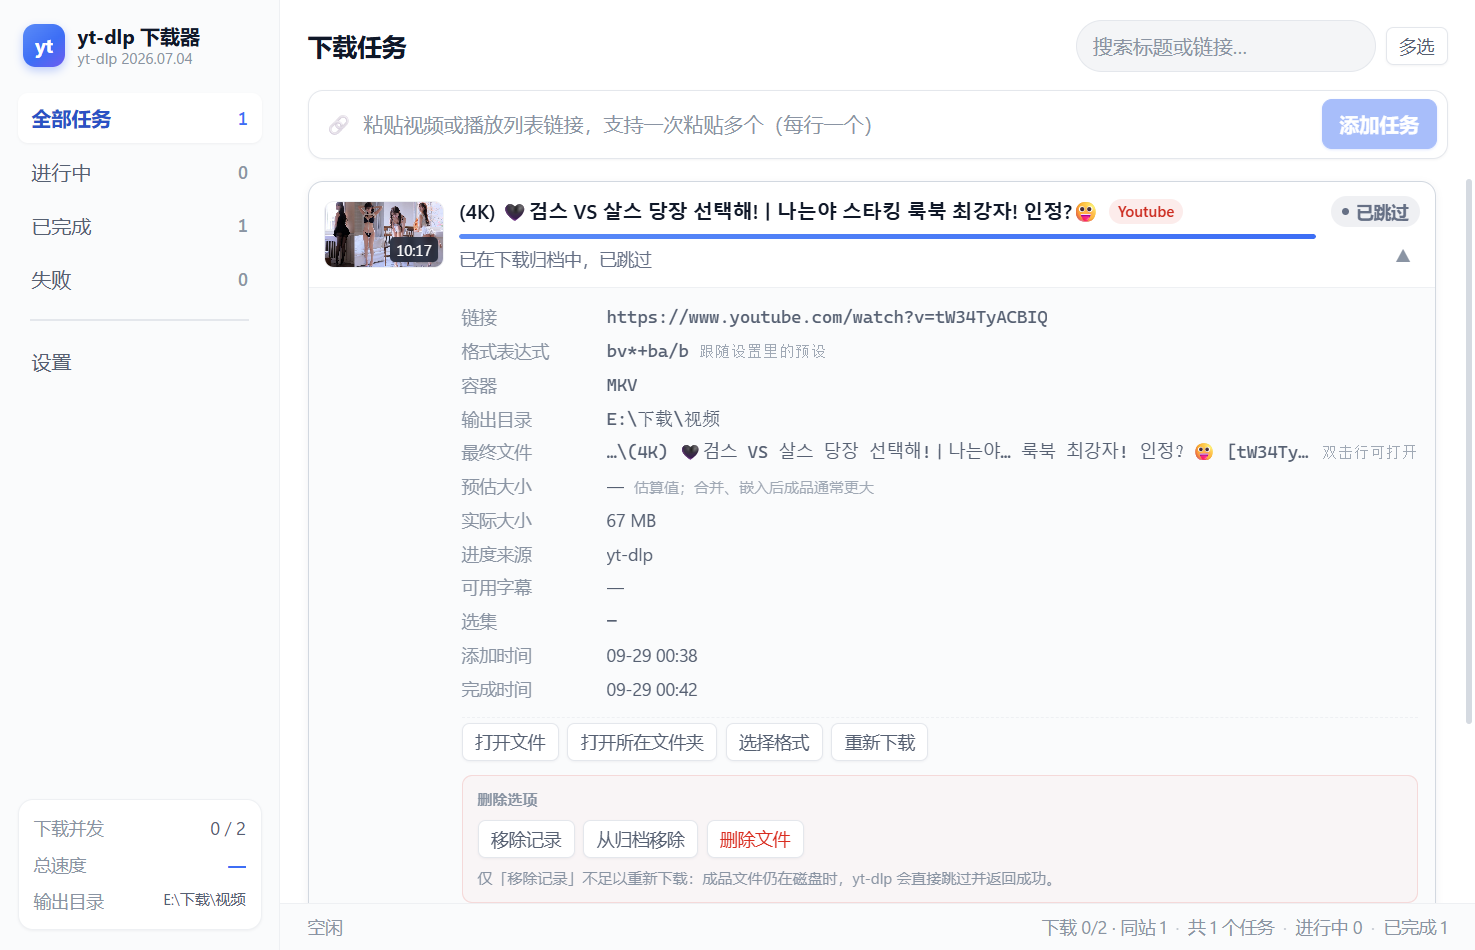
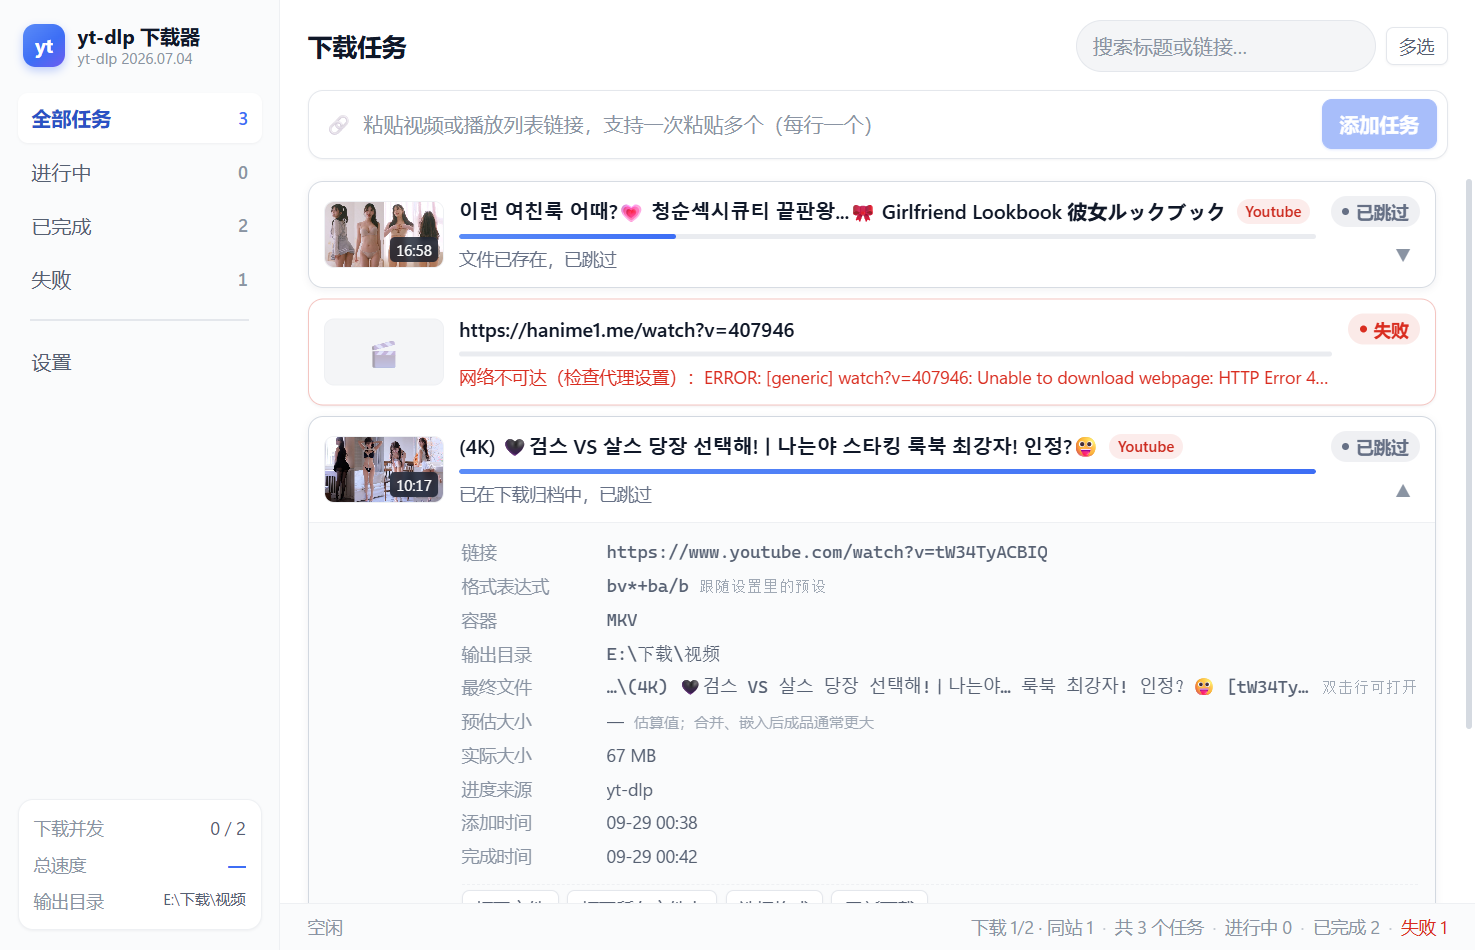
任务详情去掉「可用字幕」「选集」；顺带修两个 403 相关问题
一、按用户要求删掉任务详情里那两行
两个字段在界面上只有这两行在用，所以删掉后就没地方显示了。数据仍在采集、
仍在落库（playlist_items 后端还在用它拼 --playlist-items，不是死字段）。
「选集」删掉后，播放列表勾了哪几集在界面上看不到了——这一点告知用户。

二、截图时发现用户那条失败任务暴露的两个真问题
他试的是 hanime1.me，应用显示「网络不可达（检查代理设置）」，
而底层是 HTTP Error 403。两处都错了：

1. classify_error 里 `Unable to download webpage` 那一支排在 Cloudflare 之前，
   而且不区分「连不上」与「站点答了但拒绝」。现在：
   - Cloudflare 分支提到网络那支**之前**（特定优先）
   - 该支里裹着 4xx/5xx 时改说「站点拒绝了这次请求（HTTP 错误，不是网络不通）」
     并给出该做什么；只有真连不上才说「网络不可达」

2. 自动重试的触发条件太窄：只认 yt-dlp 那句 `Cloudflare anti-bot challenge`，
   但 yt-dlp 要**认出**才说那句话（要 cf-mitigated 头或 Cloudflare 标题）。
   用户这种自家规则的 403 只报 `Unable to download webpage: HTTP Error 403`，
   于是自动重试根本不会触发。
   现在 worth_impersonating() 收两种：带标记的 Cloudflare，以及
   `[generic]` + `HTTP Error 403`。只认 generic——别的提取器被 403 挡了
   改指纹帮不上，没道理白跑一遍。

验证（scripts/fake-cloudflare.py 加了 /plain403 形态：只有 403，没有任何
Cloudflare 标记）。实测应用跑 /plain403：

  探测 命令：… --js-runtimes bun -- http://127.0.0.1:8813/plain403
  探测被站点拦截（HTTP 403），自动开启指纹模拟重试
  探测 命令：… --extractor-args generic:impersonate -- http://127.0.0.1:8813/plain403
  开启指纹模拟后仍被拦截            <- 假站永远 403，如实记录
  探测 命令：…（退回不带 -f 的第三次）

任务上的错误变成：
  「站点拒绝了这次请求（HTTP 错误，不是网络不通）。403 / 451 常见于反爬或
    地区限制：可以到「设置 → 网络与账号」打开「绕过 Cloudflare 拦截」再试，
    或者换一个代理出口 IP。」

也就是说用户那个站点现在会**自动带指纹重试**，而不是被劝去查代理。

措辞也一并改成通用的（日志里不再写死 Cloudflare）。

重录 docs/screenshots/task-detail.png（少了两行）。

core 152 + shell 84 = 236 全绿，vue-tsc 与 vite build 通过，clippy 无新增告警。

diff --git a/src/components/TaskDetail.vue b/src/components/TaskDetail.vue
@@ -74,11 +74,6 @@ const rows = computed(() => {
       v: t.value.usedAria2c ? 'aria2c 自身输出（精度略低）' : 'yt-dlp',
       hint: t.value.usedAria2c ? '用 aria2c 时 yt-dlp 不上报进度' : undefined,
     },
-    {
-      k: '可用字幕',
-      v: t.value.subtitleLangs?.length ? t.value.subtitleLangs.join(', ') : '—',
-    },
-    { k: '选集', v: t.value.playlistItems ?? '—', mono: true },
     { k: '添加时间', v: fmtTime(t.value.addedAt) },
     { k: '完成时间', v: fmtTime(t.value.finishedAt) },
   ]

diff --git a/src-tauri/src/runner.rs b/src-tauri/src/runner.rs
@@ -391,19 +391,19 @@ pub async fn run_download(app: AppHandle, task_id: String) {
 
     if blind_retry {
         crate::logfile::info(format!(
-            "[{task_id}] 下载遇到 Cloudflare 拦截，自动开启指纹模拟重试一次"
+            "[{task_id}] 下载被站点拦截（HTTP 403），自动开启指纹模拟重试一次"
         ));
         update(&app, &task_id, |t| {
             t.auto_impersonate = true;
             t.state = "pending".into();
             t.error = None;
             t.finished_at = None;
-            t.queue_hint = Some("遇到 Cloudflare 拦截，已开启指纹模拟重试".into());
+            t.queue_hint = Some("被站点拦截，已开启指纹模拟重试".into());
         });
         push_warning(
             &app,
             &task_id,
-            "站点有 Cloudflare 反爬拦截，已自动开启浏览器指纹模拟重试（只对这个任务有效）".to_string(),
+            "站点有反爬拦截（HTTP 403），已自动开启浏览器指纹模拟重试（只对这个任务有效）".to_string(),
         );
         let host = ytdlp_core::host_of(&url);
         app.state::<crate::scheduler::Scheduler>()
@@ -714,19 +714,37 @@ fn is_cloudflare_challenge(text: &str) -> bool {
     text.contains("Cloudflare anti-bot challenge")
 }
 
+/// 是不是「generic 提取器被 HTTP 403 挡了」。
+///
+/// yt-dlp 只在**认出**那是 Cloudflare 挑战时才给那句建议——它要求响应头有
+/// `cf-mitigated: challenge`，或者页面标题正好是 `Attention Required! | Cloudflare`。
+/// 很多站点用的是自家规则（或者 CDN 没带那个头），同样是 403 却只报一句
+/// `Unable to download webpage: HTTP Error 403`。
+///
+/// 这两种对**指纹模拟**的反应是一样的，所以自动重试的条件把两种都收进来。
+/// 实测用户遇到的正是后一种：报错里根本没有 Cloudflare 字样。
+fn is_blocked_generic_403(text: &str) -> bool {
+    text.contains("[generic]") && text.contains("HTTP Error 403")
+}
+
+/// 值不值得为它开指纹模拟再试一次。
+fn worth_impersonating(text: &str) -> bool {
+    is_cloudflare_challenge(text) || is_blocked_generic_403(text)
+}
+
 /// 这次下载失败要不要**自动**带着指纹模拟重试一次。
 ///
 /// 三个条件缺一不可：
 /// - 确实失败了（不是 canceled，也不是正常跳过）；
 /// - **还没试过**自动模拟——`already` 保证只重试一次，否则会死循环；
-/// - 失败原因就是 Cloudflare 拦截。
+/// - 失败原因是站点把我们挡了（Cloudflare 挑战，或没带标记的普通 403）。
 ///
 /// 抽成纯函数是因为这个判断错了的代价很大：漏判 = 用户继续看到那个
 /// 看不懂的 403；误判 = 每个失败都白跑一遍。
 fn should_retry_with_impersonate(state: &str, already: bool, error: Option<&str>) -> bool {
     state == "failed"
         && !already
-        && error.map(is_cloudflare_challenge).unwrap_or(false)
+        && error.map(worth_impersonating).unwrap_or(false)
 }
 
 /// 从设置里取 JS 运行时配置。///
@@ -858,12 +876,12 @@ pub async fn run_probe(app: AppHandle, task_id: String) {
     let info = match probe_once(&exe, &task_id, &url, &settings, Some(&expression)).await {
         Ok(i) => i,
         Err(first) => {
-            // ① 撞上 Cloudflare 拦截：**带着指纹模拟原地重试一次**。
+            // ① 被站点拦截（403）：**带着指纹模拟原地重试一次**。
             //    放在「退回不带 -f」之前——那种退让解决不了 403，
             //    只会把同一个失败再走一遍。
-            if first.cloudflare && !impersonate_of(&settings) {
+            if first.blocked && !impersonate_of(&settings) {
                 crate::logfile::info(format!(
-                    "[{task_id}] 探测遇到 Cloudflare 拦截，自动开启指纹模拟重试"
+                    "[{task_id}] 探测被站点拦截（HTTP 403），自动开启指纹模拟重试"
                 ));
                 let forced = settings_with_impersonate(&settings);
                 match probe_once(&exe, &task_id, &url, &forced, Some(&expression)).await {
@@ -874,7 +892,7 @@ pub async fn run_probe(app: AppHandle, task_id: String) {
                         push_warning(
                             &app,
                             &task_id,
-                            "站点有 Cloudflare 反爬拦截，已自动开启浏览器指纹模拟（只对这个任务有效）"
+                            "站点有反爬拦截（HTTP 403），已自动开启浏览器指纹模拟（只对这个任务有效）"
                                 .to_string(),
                         );
                         apply_info(&app, &task_id, &url, i);
@@ -882,7 +900,7 @@ pub async fn run_probe(app: AppHandle, task_id: String) {
                     }
                     Err(_) => {
                         crate::logfile::warn(format!(
-                            "[{task_id}] 开启指纹模拟后仍被 Cloudflare 拦截"
+                            "[{task_id}] 开启指纹模拟后仍被拦截"
                         ));
                         // 模拟也没用，继续走原来的退让逻辑
                     }
@@ -924,8 +942,9 @@ struct ProbeFailure {
     message: String,
     /// 失败原因是「所选格式不可用」——用于区分「用户的表达式有问题」和偶发故障。
     format_unavailable: bool,
-    /// 失败原因是 Cloudflare 反爬拦截——这种情况要带着指纹模拟重试。
-    cloudflare: bool,
+    /// 失败原因是站点把我们挡了（Cloudflare 挑战，或没带标记的普通 403）——
+    /// 这两种都值得带着指纹模拟重试一次。
+    blocked: bool,
 }
 
 /// 跑一次探测。`format` 为 `Some` 时会带上 `-f`，从而拿到预估大小。
@@ -962,7 +981,7 @@ async fn probe_once(
             ytdlp_core::parse_info_json(&json).map_err(|e| ProbeFailure {
                 message: format!("探测结果解析失败：{e}"),
                 format_unavailable: false,
-                cloudflare: false,
+                blocked: false,
             })
         }
         Ok(o) => {
@@ -970,13 +989,13 @@ async fn probe_once(
             Err(ProbeFailure {
                 message: classify_error(&raw, o.status.code()),
                 format_unavailable: raw.contains("Requested format is not available"),
-                cloudflare: is_cloudflare_challenge(&raw),
+                blocked: worth_impersonating(&raw),
             })
         }
         Err(e) => Err(ProbeFailure {
             message: format!("无法启动 yt-dlp：{e}"),
             format_unavailable: false,
-            cloudflare: false,
+            blocked: false,
         }),
     }
 }
@@ -1039,7 +1058,31 @@ fn classify_error(stderr: &str, code: Option<i32>) -> String {
     {
         return format!("需要登录或会员权限：{}", l.trim());
     }
+    // 站点拒绝了我们。**必须排在「网络不可达」之前**：那句
+    // `Unable to download webpage` 里经常裹着 HTTP 状态码，
+    // 而「站点答了、只是不肯给」和「根本连不上」是两件完全不同的事。
+    if let Some(l) = pick("Cloudflare anti-bot challenge") {
+        return format!(
+            "这个站点有 Cloudflare 反爬拦截（HTTP 403）。\n\
+             已经自动带着浏览器指纹重试过一次了；还是不行的话，换一个代理出口 IP，\
+             或者到「设置 → 网络与账号」配上 cookie 再试。\n\
+             原始信息：{}",
+            l.trim()
+        );
+    }
     if let Some(l) = pick("Unable to download webpage").or_else(|| pick("Failed to resolve")) {
+        // ⚠ 实测踩到：`ERROR: [generic] …: Unable to download webpage: HTTP Error 403`
+        // 被判成「网络不可达（检查代理设置）」——站点明明答了，只是拒绝了我们，
+        // 这句提示会把人引到完全相反的方向去查代理。
+        if l.contains("HTTP Error 4") || l.contains("HTTP Error 5") {
+            return format!(
+                "站点拒绝了这次请求（HTTP 错误，不是网络不通）。\n\
+                 403 / 451 常见于反爬或地区限制：可以到「设置 → 网络与账号」\
+                 打开「绕过 Cloudflare 拦截」再试，或者换一个代理出口 IP。\n\
+                 原始信息：{}",
+                l.trim()
+            );
+        }
         return format!("网络不可达（检查代理设置）：{}", l.trim());
     }
     // YouTube 对「可疑请求」的两种降级响应。
@@ -1066,14 +1109,6 @@ fn classify_error(stderr: &str, code: Option<i32>) -> String {
     }
     // 站点用了 Cloudflare 反爬：yt-dlp 自己给出的解法是开指纹模拟，
     // 但那是个命令行参数，界面用户够不着——所以这里直接指到那个开关上。
-    if let Some(l) = pick("Cloudflare anti-bot challenge") {
-        return format!(
-            "这个站点有 Cloudflare 反爬拦截（HTTP 403）。\n\
-             解法：打开「设置 → 网络与账号 → 绕过 Cloudflare 拦截」再试一次。\n\
-             {}",
-            l.trim()
-        );
-    }
     if let Some(l) = pick("Unsupported URL") {
         return format!("不支持的链接：{}", l.trim());
     }
@@ -1149,8 +1184,7 @@ mod tests {
     /// 认 Cloudflare 拦截靠的是 yt-dlp 自己那句话——**分类前后的文本都要认**：
     /// 探测走 `classify_error`（中文多行），下载走到的是原始 ERROR 行。
     #[test]
-    fn cloudflare_challenge_is_recognized_in_both_forms() {
-        // 原始形式
+    fn cloudflare_challenge_is_recognized_in_both_forms() {        // 原始形式
         assert!(is_cloudflare_challenge(
             "ERROR: [generic] Got HTTP Error 403 caused by Cloudflare anti-bot challenge; \
              try again with --extractor-args \"generic:impersonate\""
@@ -1165,6 +1199,51 @@ mod tests {
         // 别的 403 不能误判
         assert!(!is_cloudflare_challenge("ERROR: HTTP Error 403: Forbidden"));
         assert!(!is_cloudflare_challenge("ERROR: Unable to download webpage"));
+    }
+
+    /// ⚠ 实测踩到的误判：`Unable to download webpage` 里裹着 HTTP 状态码时，
+    /// 那**不是**网络不通——站点答了，只是拒绝了我们。说成「网络不可达（检查代理设置）」
+    /// 会把人引到完全相反的方向去查代理。
+    #[test]
+    fn http_error_is_not_reported_as_unreachable() {
+        let real = "ERROR: [generic] watch?v=407946: Unable to download webpage: \
+                    HTTP Error 403: Forbidden";
+        let msg = classify_error(real, Some(1));
+        assert!(!msg.contains("网络不可达"), "403 不该说成网络不可达：{msg}");
+        assert!(msg.contains("拒绝了这次请求"), "实际: {msg}");
+
+        // 真的连不上时仍然要说「检查代理设置」
+        let dead = "ERROR: Unable to download webpage: <urlopen error [Errno 111] Connection refused>";
+        let msg = classify_error(dead, Some(1));
+        assert!(msg.contains("网络不可达"), "实际: {msg}");
+    }
+
+    /// Cloudflare 那句话里也含 `Unable to download webpage` 之外的形式，
+    /// 但**必须优先于**网络那一支——否则会被抢答成「网络不可达」。
+    #[test]
+    fn cloudflare_takes_priority_over_unreachable() {
+        let both = "ERROR: Unable to download webpage: HTTP Error 403: Forbidden\n\
+                    ERROR: [generic] Got HTTP Error 403 caused by Cloudflare anti-bot challenge";
+        let msg = classify_error(both, Some(1));
+        assert!(msg.contains("Cloudflare 反爬拦截"), "实际: {msg}");
+        assert!(!msg.contains("网络不可达"));
+    }
+
+    /// 没带 Cloudflare 标记、但确实是 generic 提取器被 403 挡了——
+    /// **用户遇到的正是这一种**（报错里根本没有 Cloudflare 字样）。
+    /// 这种也值得开指纹模拟试一次。
+    #[test]
+    fn unmarked_generic_403_also_worth_impersonating() {
+        let real = "ERROR: [generic] watch?v=407946: Unable to download webpage: \
+                    HTTP Error 403: Forbidden";
+        assert!(is_blocked_generic_403(real));
+        assert!(worth_impersonating(real));
+
+        // 但**非 generic** 的 403 不碰：那是别的提取器的事，模拟帮不上
+        assert!(!is_blocked_generic_403("ERROR: [youtube] x: HTTP Error 403: Forbidden"));
+        assert!(!worth_impersonating("ERROR: [youtube] x: HTTP Error 403: Forbidden"));
+        // 404 之类的也不是反爬
+        assert!(!is_blocked_generic_403("ERROR: [generic] x: HTTP Error 404: Not Found"));
     }
 
     /// 自动重试的三个条件，逐个钉住。

diff --git a/scripts/fake-cloudflare.py b/scripts/fake-cloudflare.py
@@ -1,38 +1,53 @@
-"""假装成 Cloudflare 反爬：一律返回 403 + 挑战标记。
+"""假装成反爬站点：返回 403。用来验证「被挡时自动开指纹模拟重试」。
 
-用来验证「撞上 Cloudflare 时自动开指纹模拟重试」这条路径——不用去找真站点。
+不用去找真站点——真站点不好找，也不该拿别人的站压测。
 
-yt-dlp 的判定（youtube 源码 generic.py）：
-    403 且 (响应头 cf-mitigated == 'challenge'
-            或 body 里有 <title>Attention Required! | Cloudflare</title>)
+两种形态，对应现实中两种不同的报错：
+
+  `/`          403 + `cf-mitigated: challenge` + Cloudflare 标题
+               -> yt-dlp 认得出，报 `Got HTTP Error 403 caused by Cloudflare
+                  anti-bot challenge; try again with --extractor-args ...`
+
+  `/plain403`  光是 403，没有任何 Cloudflare 标记
+               -> yt-dlp 只报 `Unable to download webpage: HTTP Error 403`
+                  **实测用户遇到的正是这一种**（报错里根本没有 Cloudflare 字样），
+                  而它以前会被应用误判成「网络不可达（检查代理设置）」。
+
+用法：python scripts/fake-cloudflare.py 8813
 """
 import http.server
 import sys
 
-BODY = (
+CLOUDFLARE_BODY = (
     b"<!DOCTYPE html><html><head><title>Attention Required! | Cloudflare</title>"
     b"</head><body>Sorry, you have been blocked</body></html>"
 )
+PLAIN_BODY = b"<!DOCTYPE html><html><body>403</body></html>"
 
 
 class Handler(http.server.BaseHTTPRequestHandler):
     def log_message(self, *args):
         pass
 
-    def _block(self):
+    def _block(self, cloudflare_marker: bool, body: bytes):
         self.send_response(403)
         self.send_header("Content-Type", "text/html")
-        self.send_header("cf-mitigated", "challenge")
-        self.send_header("Content-Length", str(len(BODY)))
+        if cloudflare_marker:
+            self.send_header("cf-mitigated", "challenge")
+        self.send_header("Content-Length", str(len(body)))
         self.end_headers()
-        self.wfile.write(BODY)
+        self.wfile.write(body)
 
     def do_GET(self):
-        self._block()
+        if self.path.startswith("/plain403"):
+            self._block(False, PLAIN_BODY)
+        else:
+            self._block(True, CLOUDFLARE_BODY)
 
     def do_HEAD(self):
         self.send_response(403)
-        self.send_header("cf-mitigated", "challenge")
+        if not self.path.startswith("/plain403"):
+            self.send_header("cf-mitigated", "challenge")
         self.send_header("Content-Length", "0")
         self.end_headers()
 

diff --git a/README.md b/README.md
@@ -179,6 +179,7 @@ yt-dlp 有两种发行形态，**只有一种能直接放进 `externalBin`**：
 | **同步的 `#[tauri::command]` 会冻住整个窗口** | 它跑在主线程（Windows 消息循环）上，稍慢就是整窗无响应——标题栏都点不动。`aria2c_info` 要起进程，就是靠这个把「进设置再返回」弄卡的 | 凡做 IO（文件/进程/网络/剪贴板）的命令一律 `#[tauri::command(async)]`（DESIGN §4.4） |
 | **CDP 的合成点击测不出整窗卡死** | 它直接投给渲染进程、绕过宿主消息循环，主线程堵死时合成点击仍然 2ms 返回 | 用 `SendMessageTimeout(..., SMTO_ABORTIFHUNG)` 探宿主是否还在处理消息 |
 | **Cloudflare 403 要开 `generic:impersonate`** | 报错原文是命令行参数，界面用户够不着。**随包的 yt-dlp 已经带了 `curl_cffi`**（`--list-impersonate-targets` 有 17 个目标），所以只差把参数传进去 | 撞上拦截时**自动带指纹重试一次**（任务级旗标，只影响这一个任务）；设置页「网络与账号 → 绕过 Cloudflare 拦截」也能手动常开——DESIGN §7.6 |
+| **`Unable to download webpage` 里可能裹着 HTTP 状态码** | `ERROR: [generic] …: Unable to download webpage: HTTP Error 403` 被归到「网络不可达（检查代理设置）」——站点明明答了，只是拒绝了我们。**实测踩到**，那句提示把人引到完全相反的方向去查代理 | 带 4xx/5xx 时改说「站点拒绝了这次请求」并给出该做什么；Cloudflare 分支提到网络那支**之前**（特定优先）——DESIGN §7.6 |
 | **改 `tempDir` 会让续传静默失效** | 新目录里找不到旧 `.part`，yt-dlp 从头下，旧碎片永久残留（清理只扫当前根） | 还有 `.part` 时**禁用**该字段（按磁盘内容判，不按任务状态）；后端绕过时记 WARN——DESIGN §5.1 |
 | **归档文件有 BOM 时首行静默失效** | yt-dlp 用 `encoding='utf-8'` 读归档，**不认 BOM**；首行比对失败 → 该视频被重新下载。后面几行正常，所以很难发现 | 宿主读写归档都去 BOM、写回不写 BOM（DESIGN §12.1）；手工修归档别用 `Out-File -Encoding utf8` |
 | **Windows PowerShell 5.1 的 `Get-Content -Raw` 按 ANSI 读 UTF-8** | 读改写一次就把整个文件的中文变成乱码，且**不可逆** | 改文件一律用编辑工具；确要用脚本时显式 `[System.IO.File]::ReadAllText($p, [Text.Encoding]::UTF8)` |

diff --git a/DESIGN.md b/DESIGN.md
@@ -778,6 +778,42 @@ except ExtractorError as e:
 
 用户没要求开模拟，是**这一个站点这一次**需要，不该顺手改掉他所有的下载。
 
+#### ⚠ 触发条件有两种，不只 Cloudflare
+
+第一版只认 yt-dlp 那句 `Cloudflare anti-bot challenge`。**实测漏了**：
+yt-dlp 只有在**认出**那是 Cloudflare 挑战时才说那句话——它要求响应头有
+`cf-mitigated: challenge`，或页面标题正好是 `Attention Required! | Cloudflare`。
+很多站点用自家规则（或 CDN 没带那个头），同样是 403 却只报：
+
+```
+ERROR: [generic] watch?v=xxx: Unable to download webpage: HTTP Error 403: Forbidden
+```
+
+这两种对指纹模拟的反应是一样的，所以 `worth_impersonating()` 收两种：
+
+| 形态 | 判据 |
+|---|---|
+| 带标记的 Cloudflare | 出现 `Cloudflare anti-bot challenge` |
+| 没标记的普通 403 | 同时出现 `[generic]` 与 `HTTP Error 403` |
+
+只认 `[generic]`：别的提取器被 403 挡了是它自己的事，改指纹帮不上，
+没道理白跑一遍。
+
+#### 顺带修掉一个误导性的错误分类
+
+同一次实测暴露的：上面那种 403 会被 `classify_error` 归到
+`Unable to download webpage` 那一支，显示成
+
+> **网络不可达（检查代理设置）**
+
+可站点**明明答了**，只是拒绝了我们。这句提示会把用户引到完全相反的方向
+（去查代理），而真正该做的是开指纹模拟或换出口 IP。
+
+现在：
+- `Cloudflare anti-bot challenge` 的分支**提到网络那一支之前**（特定优先）；
+- `Unable to download webpage` 那支里若裹着 HTTP 4xx/5xx，改说「站点拒绝了这次请求
+  （HTTP 错误，不是网络不通）」并给出该做什么；只有真连不上才说「网络不可达」。
+
 > 验证方式：`scripts/fake-cloudflare.py` 起一个一律返回
 > `403 + cf-mitigated: challenge` 的假站（真站点不好找，也不该拿别人站点压测）。
 > 实测日志：
